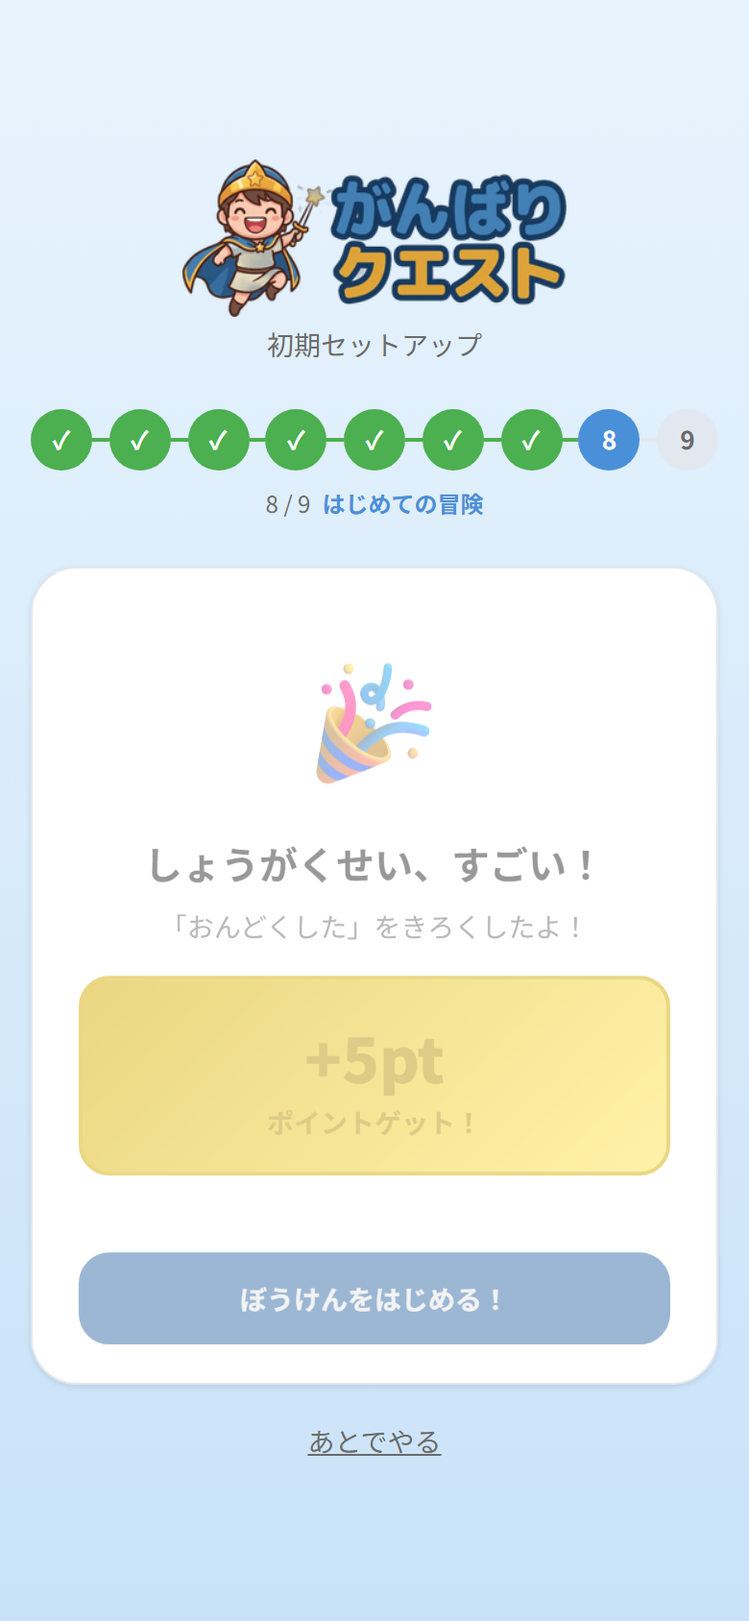
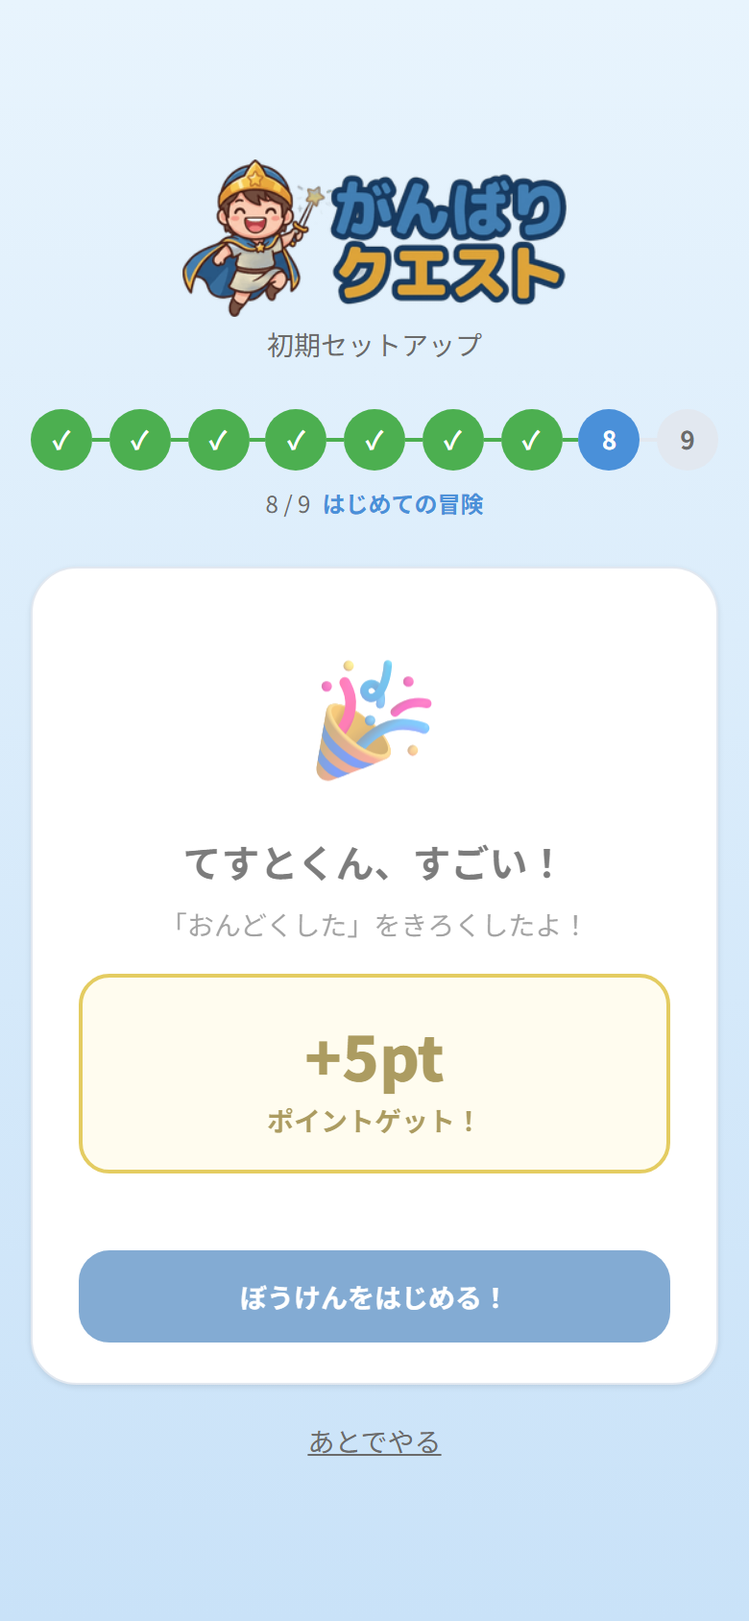
chore(screenshots): #4908 fresh dev server再起動でafter SSを撮り直し
QM BLOCK指摘 (PR #4935): after-celebration.png がbefore と実測コントラスト値
(RGB(220,204,135)、1.34:1)まで一致しており、stale build/devサーバーの疑いあり
と判定された。fresh dev server + DBリセット後に再撮影したところ、背景が単色
gold-100 (#fffbe6) / 文字が text-gold (#7a5f00) に正しく切り替わっており、
以前のafter-*.png は撮影時に古いdevサーバーを参照していたことが原因と特定。

Claude-Session: https://claude.ai/code/session_018PYFktdQzu6Cvx6ipE2gK4

diff --git a/pr-4935/after-selecting.dom.html b/pr-4935/after-selecting.dom.html
@@ -15,9 +15,9 @@
 		<link rel="icon" type="image/png" sizes="16x16" href="http://localhost:5173/favicon-16x16.png?v=2">
 		<link rel="apple-touch-icon" sizes="180x180" href="http://localhost:5173/icons/apple-touch-icon.png">
 		<link rel="manifest" href="/manifest.webmanifest">
-		<!--12qhfyh--><meta name="description" content="お子さまの活動をゲーミフィケーションで動機付けする家庭内Webアプリ"><!----><!--1kgyebr--><!----><title>はじめてのぼうけん - がんばりクエスト セットアップ</title>
+		<!--12qhfyh--><meta name="description" content="お子さまの活動をゲーミフィケーションで動機付けする家庭内Webアプリ"><!----><!--1kgyebr--><!----><script>console.error("node_invalid_placement_ssr: `<button>` (src/lib/ui/primitives/Button.svelte:117:7) cannot be a descendant of `<button>` (src/lib/ui/primitives/Button.svelte:81:0)\n\nThis can cause content to shift around as the browser repairs the HTML, and will likely result in a `hydration_mismatch` warning.")</script><title>はじめてのぼうけん - がんばりクエスト セットアップ</title>
 		
-	<style type="text/css" data-vite-dev-id="E:/Github/ganbari-quest-dev/.claude/worktrees/agent-ae16011e0ac0f3565/src/lib/features/ops/OpsMfaSetupNotice.svelte?svelte&amp;type=style&amp;lang.css">
+	<style type="text/css" data-vite-dev-id="E:/Github/ganbari-quest-dev/.claude/worktrees/agent-ae5211a49d5d0b189/src/lib/features/ops/OpsMfaSetupNotice.svelte?svelte&amp;type=style&amp;lang.css">
 	.ops-mfa-notice.svelte-8sltx3 {
 		max-width: 40rem;
 		margin: 2rem auto;
@@ -58,7 +58,7 @@
 		line-height: 1.6;
 		margin: 0;
 	}
- .svelte-8sltx3{}</style><style type="text/css" data-vite-dev-id="E:/Github/ganbari-quest-dev/.claude/worktrees/agent-ae16011e0ac0f3565/src/routes/+error.svelte?svelte&amp;type=style&amp;lang.css">
+ .svelte-8sltx3{}</style><style type="text/css" data-vite-dev-id="E:/Github/ganbari-quest-dev/.claude/worktrees/agent-ae5211a49d5d0b189/src/routes/+error.svelte?svelte&amp;type=style&amp;lang.css">
 	.error-page.svelte-1j96wlh {
 		display: flex;
 		align-items: center;
@@ -146,7 +146,7 @@
 		padding: 0.125rem 0.375rem;
 		border-radius: 4px;
 	}
- .svelte-1j96wlh{}</style><style type="text/css" data-vite-dev-id="E:/Github/ganbari-quest-dev/.claude/worktrees/agent-ae16011e0ac0f3565/src/lib/ui/styles/app.css">/*! tailwindcss v4.3.3 | MIT License | https://tailwindcss.com */
+ .svelte-1j96wlh{}</style><style type="text/css" data-vite-dev-id="E:/Github/ganbari-quest-dev/.claude/worktrees/agent-ae5211a49d5d0b189/src/lib/ui/styles/app.css">/*! tailwindcss v4.3.3 | MIT License | https://tailwindcss.com */
 @layer properties;
 @layer theme, base, components, utilities;
 @layer theme {
@@ -4156,7 +4156,7 @@ h1, h2, h3, h4 {
     }
   }
 }
-</style><style type="text/css" data-vite-dev-id="E:/Github/ganbari-quest-dev/.claude/worktrees/agent-ae16011e0ac0f3565/src/lib/ui/components/NavigationProgress.svelte?svelte&amp;type=style&amp;lang.css">
+</style><style type="text/css" data-vite-dev-id="E:/Github/ganbari-quest-dev/.claude/worktrees/agent-ae5211a49d5d0b189/src/lib/ui/components/NavigationProgress.svelte?svelte&amp;type=style&amp;lang.css">
 	.navigation-progress.svelte-1p67wbu {
 		position: fixed;
 		top: 0;
@@ -4188,7 +4188,7 @@ h1, h2, h3, h4 {
 			opacity: 0;
 		}
 	}
- .svelte-1p67wbu{}</style><style type="text/css" data-vite-dev-id="E:/Github/ganbari-quest-dev/.claude/worktrees/agent-ae16011e0ac0f3565/src/lib/ui/components/Logo.svelte?svelte&amp;type=style&amp;lang.css">
+ .svelte-1p67wbu{}</style><style type="text/css" data-vite-dev-id="E:/Github/ganbari-quest-dev/.claude/worktrees/agent-ae5211a49d5d0b189/src/lib/ui/components/Logo.svelte?svelte&amp;type=style&amp;lang.css">
 	.logo-wrapper.svelte-1n7r250 {
 		display: inline-flex;
 		align-items: center;
@@ -4216,7 +4216,7 @@ h1, h2, h3, h4 {
 		background: var(--plan-badge-bg, #fef3c7);
 		color: var(--plan-badge-text, #92400e);
 	}
- .svelte-1n7r250{}</style><style type="text/css" data-vite-dev-id="E:/Github/ganbari-quest-dev/.claude/worktrees/agent-ae16011e0ac0f3565/src/routes/setup/+layout.svelte?svelte&amp;type=style&amp;lang.css">
+ .svelte-1n7r250{}</style><style type="text/css" data-vite-dev-id="E:/Github/ganbari-quest-dev/.claude/worktrees/agent-ae5211a49d5d0b189/src/routes/setup/+layout.svelte?svelte&amp;type=style&amp;lang.css">
 	.setup-page.svelte-a9mpxv {
 		min-height: 100dvh;
 		background: linear-gradient(to bottom, var(--color-brand-100), var(--color-brand-200));
@@ -4262,8 +4262,12 @@ h1, h2, h3, h4 {
 	}
 	.step-caption__count.svelte-a9mpxv { color: var(--color-text-muted); font-variant-numeric: tabular-nums; }
 	.step-caption__label.svelte-a9mpxv { color: var(--color-brand-600); font-weight: 600; }
- .svelte-a9mpxv{}</style><meta name="description" content="お子さまの活動をゲーミフィケーションで動機付けする家庭内Webアプリ"><style type="text/css" data-vite-dev-id="E:/Github/ganbari-quest-dev/.claude/worktrees/agent-ae16011e0ac0f3565/src/routes/setup/first-adventure/+page.svelte?svelte&amp;type=style&amp;lang.css">
-	.points-display.svelte-szbbua { background: var(--gradient-gold); }
+ .svelte-a9mpxv{}</style><meta name="description" content="お子さまの活動をゲーミフィケーションで動機付けする家庭内Webアプリ"><style type="text/css" data-vite-dev-id="E:/Github/ganbari-quest-dev/.claude/worktrees/agent-ae5211a49d5d0b189/src/routes/setup/first-adventure/+page.svelte?svelte&amp;type=style&amp;lang.css">
+	/* #4908: gradient-gold background fails WCAG AA with any gold text token (measured
+	   1.3-2.2:1). Switched to solid gold-100, which --color-text-gold satisfies AA against
+	   (locked by tests/unit/architecture/color-contrast-tokens.test.ts). Rationale (JP) is in
+	   the <script> block near resultPointsBreakdown. */
+	.points-display.svelte-szbbua { background: var(--color-gold-100); }
 	.celebration-emoji.svelte-szbbua { animation: svelte-szbbua-bounce 0.6s ease-in-out infinite alternate; }
 	@keyframes svelte-szbbua-bounce {
 		from { transform: translateY(0); }
@@ -4280,4 +4284,4 @@ h1, h2, h3, h4 {
 		50% { box-shadow: 0 0 0 8px rgba(34, 197, 94, 0); }
 	}
  .svelte-szbbua{}</style></head>
-	<body data-sveltekit-preload-data="hover"><!----><!----><!----><!----><!----> <!----><!----> <!----><!----> <!----><!----><div class="setup-page svelte-a9mpxv"><div class="w-full max-w-[480px] svelte-a9mpxv"><div class="text-center mb-6 svelte-a9mpxv"><span class="logo-wrapper  svelte-1n7r250"><img class="logo svelte-1n7r250" src="/logo-compact.png" alt="がんばりクエスト" width="200" height="81"> <!----></span><!----> <p class="text-sm text-[var(--color-text-muted)] mt-1 svelte-a9mpxv">初期セットアップ</p></div> <div class="steps svelte-a9mpxv"><div class="step svelte-a9mpxv step--done" aria-label="子供登録"><span aria-hidden="true" class="svelte-a9mpxv">✓</span><!----></div> <div class="step-line svelte-a9mpxv step-line--done"></div><!----><div class="step svelte-a9mpxv step--done" aria-label="かんたん質問"><span aria-hidden="true" class="svelte-a9mpxv">✓</span><!----></div> <div class="step-line svelte-a9mpxv step-line--done"></div><!----><div class="step svelte-a9mpxv step--done" aria-label="活動"><span aria-hidden="true" class="svelte-a9mpxv">✓</span><!----></div> <div class="step-line svelte-a9mpxv step-line--done"></div><!----><div class="step svelte-a9mpxv step--done" aria-label="ごほうび"><span aria-hidden="true" class="svelte-a9mpxv">✓</span><!----></div> <div class="step-line svelte-a9mpxv step-line--done"></div><!----><div class="step svelte-a9mpxv step--done" aria-label="ルール"><span aria-hidden="true" class="svelte-a9mpxv">✓</span><!----></div> <div class="step-line svelte-a9mpxv step-line--done"></div><!----><div class="step svelte-a9mpxv step--done" aria-label="活動初期設定"><span aria-hidden="true" class="svelte-a9mpxv">✓</span><!----></div> <div class="step-line svelte-a9mpxv step-line--done"></div><!----><div class="step svelte-a9mpxv step--done" aria-label="家族チャレンジ"><span aria-hidden="true" class="svelte-a9mpxv">✓</span><!----></div> <div class="step-line svelte-a9mpxv step-line--done"></div><!----><div class="step svelte-a9mpxv step--active" aria-label="はじめての冒険" aria-current="step">8<!----></div> <div class="step-line svelte-a9mpxv"></div><!----><div class="step svelte-a9mpxv" aria-label="冒険の始まり">9<!----></div> <!----></div> <p class="step-caption mb-6 svelte-a9mpxv"><span class="step-caption__count svelte-a9mpxv">8 / 9</span> <span class="step-caption__label svelte-a9mpxv">はじめての冒険</span></p> <section class="rounded-[var(--card-radius)] overflow-hidden bg-[var(--card-bg)] shadow-[var(--card-shadow)] border border-[var(--color-border-default)] "><!----> <div class="p-6"><!----><!----><!----><!----><!----><!----> <!----><p class="text-sm text-[var(--color-text-muted)] text-center mb-3 svelte-szbbua" role="status" data-testid="first-adventure-challenges-notice">チャレンジを 3 件追加しました。</p><!----> <div class="mb-4 svelte-szbbua" data-testid="first-adventure-child-picker"><div class="text-xs text-[var(--color-text-muted)] mb-1 svelte-szbbua">だれといっしょにやる？</div> <form method="GET" class="flex flex-wrap gap-2 svelte-szbbua"><!----><!----><button class="tap-target inline-flex items-center justify-center gap-2 font-bold transition-all disabled:opacity-60 disabled:cursor-not-allowed bg-transparent text-[var(--color-text-muted)] hover:bg-black/5 active:bg-black/10 px-4 py-2 text-sm rounded-[var(--radius-sm)] px-3 py-2 rounded-lg border-2 text-sm border-[var(--color-brand-600)] bg-[var(--color-brand-200)] text-[var(--color-text)] font-bold" aria-busy="false" type="submit" name="childId" value="4"><!---->しょうがくせい<!----></button><!----><!----><button class="tap-target inline-flex items-center justify-center gap-2 font-bold transition-all disabled:opacity-60 disabled:cursor-not-allowed bg-transparent text-[var(--color-text-muted)] hover:bg-black/5 active:bg-black/10 px-4 py-2 text-sm rounded-[var(--radius-sm)] px-3 py-2 rounded-lg border-2 text-sm border-[var(--color-border-default)] bg-[var(--color-surface-card)] text-[var(--color-text-muted)]" aria-busy="false" type="submit" name="childId" value="5"><!---->ちゅうがくせい<!----></button><!----><!----><button class="tap-target inline-flex items-center justify-center gap-2 font-bold transition-all disabled:opacity-60 disabled:cursor-not-allowed bg-transparent text-[var(--color-text-muted)] hover:bg-black/5 active:bg-black/10 px-4 py-2 text-sm rounded-[var(--radius-sm)] px-3 py-2 rounded-lg border-2 text-sm border-[var(--color-border-default)] bg-[var(--color-surface-card)] text-[var(--color-text-muted)]" aria-busy="false" type="submit" name="childId" value="6"><!---->こうこうせい<!----></button><!----><!----><button class="tap-target inline-flex items-center justify-center gap-2 font-bold transition-all disabled:opacity-60 disabled:cursor-not-allowed bg-transparent text-[var(--color-text-muted)] hover:bg-black/5 active:bg-black/10 px-4 py-2 text-sm rounded-[var(--radius-sm)] px-3 py-2 rounded-lg border-2 text-sm border-[var(--color-border-default)] bg-[var(--color-surface-card)] text-[var(--color-text-muted)]" aria-busy="false" type="submit" name="childId" value="7"><!---->てすとくん<!----></button><!----><!----><button class="tap-target inline-flex items-center justify-center gap-2 font-bold transition-all disabled:opacity-60 disabled:cursor-not-allowed bg-transparent text-[var(--color-text-muted)] hover:bg-black/5 active:bg-black/10 px-4 py-2 text-sm rounded-[var(--radius-sm)] px-3 py-2 rounded-lg border-2 text-sm border-[var(--color-border-default)] bg-[var(--color-surface-card)] text-[var(--color-text-muted)]" aria-busy="false" type="submit" name="childId" value="8"><!---->てすとくん<!----></button><!----><!----><button class="tap-target inline-flex items-center justify-center gap-2 font-bold transition-all disabled:opacity-60 disabled:cursor-not-allowed bg-transparent text-[var(--color-text-muted)] hover:bg-black/5 active:bg-black/10 px-4 py-2 text-sm rounded-[var(--radius-sm)] px-3 py-2 rounded-lg border-2 text-sm border-[var(--color-border-default)] bg-[var(--color-surface-card)] text-[var(--color-text-muted)]" aria-busy="false" type="submit" name="childId" value="9"><!---->てすとくん<!----></button><!----><!----><button class="tap-target inline-flex items-center justify-center gap-2 font-bold transition-all disabled:opacity-60 disabled:cursor-not-allowed bg-transparent text-[var(--color-text-muted)] hover:bg-black/5 active:bg-black/10 px-4 py-2 text-sm rounded-[var(--radius-sm)] px-3 py-2 rounded-lg border-2 text-sm border-[var(--color-border-default)] bg-[var(--color-surface-card)] text-[var(--color-text-muted)]" aria-busy="false" type="submit" name="childId" value="10"><!---->てすとくん<!----></button></form> <p class="mt-2 mb-0 text-xs text-[var(--color-text-muted)] svelte-szbbua" data-testid="first-adventure-child-picker-reassurance">まずは 1 人と一緒に。ほかのお子さまはあとからでも大丈夫です</p></div><!----> <div class="text-center mb-4 svelte-szbbua"><div class="text-3xl mb-2 svelte-szbbua">⚔</div> <h2 class="text-lg font-bold text-[var(--color-text)] svelte-szbbua">はじめてのぼうけん！</h2> <p class="text-sm text-[var(--color-text-muted)] mt-1 svelte-szbbua">しょうがくせい、さいしょのがんばりを<br class="svelte-szbbua"> いっしょにきろくしよう！</p></div> <form method="POST" action="?/record" class="svelte-szbbua"><input type="hidden" name="childId" class="svelte-szbbua" value="4" style=""> <input type="hidden" name="activityId" class="svelte-szbbua" style=""> <div class="grid grid-cols-[repeat(auto-fill,minmax(130px,1fr))] gap-2 svelte-szbbua"><!----><!----><button class="tap-target inline-flex items-center justify-center gap-2 font-bold transition-all disabled:opacity-60 disabled:cursor-not-allowed bg-transparent text-[var(--color-text-muted)] hover:bg-black/5 active:bg-black/10 px-4 py-2 text-sm rounded-[var(--radius-sm)] flex flex-col items-center gap-1 px-2 py-4 border-2 rounded-2xl bg-white cursor-pointer transition-all duration-150 h-auto border-[var(--color-neutral-200)] hover:border-[var(--color-brand-300)] hover:bg-[var(--color-brand-50)]" aria-busy="false" type="button"><!----><span class="text-[2rem] svelte-szbbua">📝</span> <span class="text-xs font-semibold text-[var(--color-text)] text-center leading-tight svelte-szbbua">しゅくだいをした</span> <span class="text-[0.625rem] text-[var(--color-gold-600)] font-bold svelte-szbbua">+10pt</span><!----></button><!----><!----><button class="tap-target inline-flex items-center justify-center gap-2 font-bold transition-all disabled:opacity-60 disabled:cursor-not-allowed bg-transparent text-[var(--color-text-muted)] hover:bg-black/5 active:bg-black/10 px-4 py-2 text-sm rounded-[var(--radius-sm)] flex flex-col items-center gap-1 px-2 py-4 border-2 rounded-2xl bg-white cursor-pointer transition-all duration-150 h-auto border-[var(--color-neutral-200)] hover:border-[var(--color-brand-300)] hover:bg-[var(--color-brand-50)]" aria-busy="false" type="button"><!----><span class="text-[2rem] svelte-szbbua">📖</span> <span class="text-xs font-semibold text-[var(--color-text)] text-center leading-tight svelte-szbbua">どくしょした</span> <span class="text-[0.625rem] text-[var(--color-gold-600)] font-bold svelte-szbbua">+10pt</span><!----></button><!----><!----><button class="tap-target inline-flex items-center justify-center gap-2 font-bold transition-all disabled:opacity-60 disabled:cursor-not-allowed bg-transparent text-[var(--color-text-muted)] hover:bg-black/5 active:bg-black/10 px-4 py-2 text-sm rounded-[var(--radius-sm)] flex flex-col items-center gap-1 px-2 py-4 border-2 rounded-2xl bg-white cursor-pointer transition-all duration-150 h-auto border-[var(--color-neutral-200)] hover:border-[var(--color-brand-300)] hover:bg-[var(--color-brand-50)]" aria-busy="false" type="button"><!----><span class="text-[2rem] svelte-szbbua">🔢</span> <span class="text-xs font-semibold text-[var(--color-text)] text-center leading-tight svelte-szbbua">けいさんれんしゅう</span> <span class="text-[0.625rem] text-[var(--color-gold-600)] font-bold svelte-szbbua">+10pt</span><!----></button><!----><!----><button class="tap-target inline-flex items-center justify-center gap-2 font-bold transition-all disabled:opacity-60 disabled:cursor-not-allowed bg-transparent text-[var(--color-text-muted)] hover:bg-black/5 active:bg-black/10 px-4 py-2 text-sm rounded-[var(--radius-sm)] flex flex-col items-center gap-1 px-2 py-4 border-2 rounded-2xl bg-white cursor-pointer transition-all duration-150 h-auto border-[var(--color-neutral-200)] hover:border-[var(--color-brand-300)] hover:bg-[var(--color-brand-50)]" aria-busy="false" type="button"><!----><span class="text-[2rem] svelte-szbbua">✏</span> <span class="text-xs font-semibold text-[var(--color-text)] text-center leading-tight svelte-szbbua">かんじれんしゅう</span> <span class="text-[0.625rem] text-[var(--color-gold-600)] font-bold svelte-szbbua">+10pt</span><!----></button><!----><!----><button class="tap-target inline-flex items-center justify-center gap-2 font-bold transition-all disabled:opacity-60 disabled:cursor-not-allowed bg-transparent text-[var(--color-text-muted)] hover:bg-black/5 active:bg-black/10 px-4 py-2 text-sm rounded-[var(--radius-sm)] flex flex-col items-center gap-1 px-2 py-4 border-2 rounded-2xl bg-white cursor-pointer transition-all duration-150 h-auto border-[var(--color-neutral-200)] hover:border-[var(--color-brand-300)] hover:bg-[var(--color-brand-50)]" aria-busy="false" type="button"><!----><span class="text-[2rem] svelte-szbbua">🗣</span> <span class="text-xs font-semibold text-[var(--color-text)] text-center leading-tight svelte-szbbua">おんどくした</span> <span class="text-[0.625rem] text-[var(--color-gold-600)] font-bold svelte-szbbua">+5pt</span><!----></button></div> <p class="text-xs text-[var(--color-neutral-400)] text-center mt-4 svelte-szbbua">がんばりをえらんでね！</p><!----></form> <div class="text-center mt-3 svelte-szbbua"><a class="block py-2 text-center text-xs font-bold text-[var(--color-text-muted)] underline hover:text-[var(--color-text-secondary)] svelte-szbbua" data-testid="setup-back-link" href="/setup/challenges">← もどる</a> <form method="POST" action="?/skip" class="svelte-szbbua"><!----><button class="tap-target inline-flex items-center justify-center gap-2 font-bold transition-all disabled:opacity-60 disabled:cursor-not-allowed bg-transparent text-[var(--color-text-muted)] hover:bg-black/5 active:bg-black/10 px-4 py-2 text-sm rounded-[var(--radius-sm)] text-xs underline" aria-busy="false" type="submit"><!---->あとでやる（スキップ）<!----></button><!----></form></div><!----><!----></div> <!----></section><!----> <p class="text-center mt-4 svelte-a9mpxv"><a class="text-sm text-[var(--color-text-muted)] underline hover:text-[var(--color-text-link)] svelte-a9mpxv" data-testid="setup-leave-wizard" href="/switch">あとでやる</a></p><!----></div></div><!----><!----> <div id="svelte-announcer" aria-live="assertive" aria-atomic="true" style="position: absolute; left: 0; top: 0; clip: rect(0 0 0 0); clip-path: inset(50%); overflow: hidden; white-space: nowrap; width: 1px; height: 1px">はじめてのぼうけん - がんばりクエスト セットアップ<!----></div><!----></body></html>
+	<body data-sveltekit-preload-data="hover"><!----><!----><!----><!----><!----> <!----><!----> <!----><!----> <!----><!----><div class="setup-page svelte-a9mpxv"><div class="w-full max-w-[480px] svelte-a9mpxv"><div class="text-center mb-6 svelte-a9mpxv"><span class="logo-wrapper  svelte-1n7r250"><img class="logo svelte-1n7r250" src="/logo-compact.png" alt="がんばりクエスト" width="200" height="81"> <!----></span><!----> <p class="text-sm text-[var(--color-text-muted)] mt-1 svelte-a9mpxv">初期セットアップ</p></div> <div class="steps svelte-a9mpxv"><div class="step svelte-a9mpxv step--done" aria-label="子供登録"><span aria-hidden="true" class="svelte-a9mpxv">✓</span><!----></div> <div class="step-line svelte-a9mpxv step-line--done"></div><!----><div class="step svelte-a9mpxv step--done" aria-label="かんたん質問"><span aria-hidden="true" class="svelte-a9mpxv">✓</span><!----></div> <div class="step-line svelte-a9mpxv step-line--done"></div><!----><div class="step svelte-a9mpxv step--done" aria-label="活動"><span aria-hidden="true" class="svelte-a9mpxv">✓</span><!----></div> <div class="step-line svelte-a9mpxv step-line--done"></div><!----><div class="step svelte-a9mpxv step--done" aria-label="ごほうび"><span aria-hidden="true" class="svelte-a9mpxv">✓</span><!----></div> <div class="step-line svelte-a9mpxv step-line--done"></div><!----><div class="step svelte-a9mpxv step--done" aria-label="ルール"><span aria-hidden="true" class="svelte-a9mpxv">✓</span><!----></div> <div class="step-line svelte-a9mpxv step-line--done"></div><!----><div class="step svelte-a9mpxv step--done" aria-label="活動初期設定"><span aria-hidden="true" class="svelte-a9mpxv">✓</span><!----></div> <div class="step-line svelte-a9mpxv step-line--done"></div><!----><div class="step svelte-a9mpxv step--done" aria-label="家族チャレンジ"><span aria-hidden="true" class="svelte-a9mpxv">✓</span><!----></div> <div class="step-line svelte-a9mpxv step-line--done"></div><!----><div class="step svelte-a9mpxv step--active" aria-label="はじめての冒険" aria-current="step">8<!----></div> <div class="step-line svelte-a9mpxv"></div><!----><div class="step svelte-a9mpxv" aria-label="冒険の始まり">9<!----></div> <!----></div> <p class="step-caption mb-6 svelte-a9mpxv"><span class="step-caption__count svelte-a9mpxv">8 / 9</span> <span class="step-caption__label svelte-a9mpxv">はじめての冒険</span></p> <section class="rounded-[var(--card-radius)] overflow-hidden bg-[var(--card-bg)] shadow-[var(--card-shadow)] border border-[var(--color-border-default)] "><!----> <div class="p-6"><!----><!----><!----><!----><!----><!----> <!----><p class="text-sm text-[var(--color-text-muted)] text-center mb-3 svelte-szbbua" role="status" data-testid="first-adventure-challenges-notice">チャレンジを 3 件追加しました。</p><!----> <!----> <div class="text-center mb-4 svelte-szbbua"><div class="text-3xl mb-2 svelte-szbbua">⚔</div> <h2 class="text-lg font-bold text-[var(--color-text)] svelte-szbbua">はじめてのぼうけん！</h2> <p class="text-sm text-[var(--color-text-muted)] mt-1 svelte-szbbua">てすとくん、さいしょのがんばりを<br class="svelte-szbbua"> いっしょにきろくしよう！</p></div> <form method="POST" action="?/record" class="svelte-szbbua"><input type="hidden" name="childId" class="svelte-szbbua" value="1" style=""> <input type="hidden" name="activityId" class="svelte-szbbua" style=""> <div class="grid grid-cols-[repeat(auto-fill,minmax(130px,1fr))] gap-2 svelte-szbbua"><!----><!----><button class="tap-target inline-flex items-center justify-center gap-2 font-bold transition-all disabled:opacity-60 disabled:cursor-not-allowed bg-transparent text-[var(--color-text-muted)] hover:bg-black/5 active:bg-black/10 px-4 py-2 text-sm rounded-[var(--radius-sm)] flex flex-col items-center gap-1 px-2 py-4 border-2 rounded-2xl bg-white cursor-pointer transition-all duration-150 h-auto border-[var(--color-neutral-200)] hover:border-[var(--color-brand-300)] hover:bg-[var(--color-brand-50)]" aria-busy="false" type="button"><!----><span class="text-[2rem] svelte-szbbua">📝</span> <span class="text-xs font-semibold text-[var(--color-text)] text-center leading-tight svelte-szbbua">しゅくだいをした</span> <span class="text-[0.625rem] text-[var(--color-gold-600)] font-bold svelte-szbbua">+10pt</span><!----></button><!----><!----><button class="tap-target inline-flex items-center justify-center gap-2 font-bold transition-all disabled:opacity-60 disabled:cursor-not-allowed bg-transparent text-[var(--color-text-muted)] hover:bg-black/5 active:bg-black/10 px-4 py-2 text-sm rounded-[var(--radius-sm)] flex flex-col items-center gap-1 px-2 py-4 border-2 rounded-2xl bg-white cursor-pointer transition-all duration-150 h-auto border-[var(--color-neutral-200)] hover:border-[var(--color-brand-300)] hover:bg-[var(--color-brand-50)]" aria-busy="false" type="button"><!----><span class="text-[2rem] svelte-szbbua">📖</span> <span class="text-xs font-semibold text-[var(--color-text)] text-center leading-tight svelte-szbbua">どくしょした</span> <span class="text-[0.625rem] text-[var(--color-gold-600)] font-bold svelte-szbbua">+10pt</span><!----></button><!----><!----><button class="tap-target inline-flex items-center justify-center gap-2 font-bold transition-all disabled:opacity-60 disabled:cursor-not-allowed bg-transparent text-[var(--color-text-muted)] hover:bg-black/5 active:bg-black/10 px-4 py-2 text-sm rounded-[var(--radius-sm)] flex flex-col items-center gap-1 px-2 py-4 border-2 rounded-2xl bg-white cursor-pointer transition-all duration-150 h-auto border-[var(--color-neutral-200)] hover:border-[var(--color-brand-300)] hover:bg-[var(--color-brand-50)]" aria-busy="false" type="button"><!----><span class="text-[2rem] svelte-szbbua">🔢</span> <span class="text-xs font-semibold text-[var(--color-text)] text-center leading-tight svelte-szbbua">けいさんれんしゅう</span> <span class="text-[0.625rem] text-[var(--color-gold-600)] font-bold svelte-szbbua">+10pt</span><!----></button><!----><!----><button class="tap-target inline-flex items-center justify-center gap-2 font-bold transition-all disabled:opacity-60 disabled:cursor-not-allowed bg-transparent text-[var(--color-text-muted)] hover:bg-black/5 active:bg-black/10 px-4 py-2 text-sm rounded-[var(--radius-sm)] flex flex-col items-center gap-1 px-2 py-4 border-2 rounded-2xl bg-white cursor-pointer transition-all duration-150 h-auto border-[var(--color-neutral-200)] hover:border-[var(--color-brand-300)] hover:bg-[var(--color-brand-50)]" aria-busy="false" type="button"><!----><span class="text-[2rem] svelte-szbbua">✏</span> <span class="text-xs font-semibold text-[var(--color-text)] text-center leading-tight svelte-szbbua">かんじれんしゅう</span> <span class="text-[0.625rem] text-[var(--color-gold-600)] font-bold svelte-szbbua">+10pt</span><!----></button><!----><!----><button class="tap-target inline-flex items-center justify-center gap-2 font-bold transition-all disabled:opacity-60 disabled:cursor-not-allowed bg-transparent text-[var(--color-text-muted)] hover:bg-black/5 active:bg-black/10 px-4 py-2 text-sm rounded-[var(--radius-sm)] flex flex-col items-center gap-1 px-2 py-4 border-2 rounded-2xl bg-white cursor-pointer transition-all duration-150 h-auto border-[var(--color-neutral-200)] hover:border-[var(--color-brand-300)] hover:bg-[var(--color-brand-50)]" aria-busy="false" type="button"><!----><span class="text-[2rem] svelte-szbbua">🗣</span> <span class="text-xs font-semibold text-[var(--color-text)] text-center leading-tight svelte-szbbua">おんどくした</span> <span class="text-[0.625rem] text-[var(--color-gold-600)] font-bold svelte-szbbua">+5pt</span><!----></button></div> <p class="text-xs text-[var(--color-neutral-400)] text-center mt-4 svelte-szbbua">がんばりをえらんでね！</p><!----></form> <div class="text-center mt-3 svelte-szbbua"><a class="block py-2 text-center text-xs font-bold text-[var(--color-text-muted)] underline hover:text-[var(--color-text-secondary)] svelte-szbbua" data-testid="setup-back-link" href="/setup/challenges">← もどる</a> <form method="POST" action="?/skip" class="svelte-szbbua"><!----><button class="tap-target inline-flex items-center justify-center gap-2 font-bold transition-all disabled:opacity-60 disabled:cursor-not-allowed bg-transparent text-[var(--color-text-muted)] hover:bg-black/5 active:bg-black/10 px-4 py-2 text-sm rounded-[var(--radius-sm)] text-xs underline" aria-busy="false" type="submit"><!---->あとでやる（スキップ）<!----></button><!----></form></div><!----><!----></div> <!----></section><!----> <p class="text-center mt-4 svelte-a9mpxv"><a class="text-sm text-[var(--color-text-muted)] underline hover:text-[var(--color-text-link)] svelte-a9mpxv" data-testid="setup-leave-wizard" href="/switch">あとでやる</a></p><!----></div></div><!----><!----> <div id="svelte-announcer" aria-live="assertive" aria-atomic="true" style="position: absolute; left: 0; top: 0; clip: rect(0 0 0 0); clip-path: inset(50%); overflow: hidden; white-space: nowrap; width: 1px; height: 1px">はじめてのぼうけん - がんばりクエスト セットアップ<!----></div><!----></body></html>

diff --git a/pr-4935/after-celebration.dom.html b/pr-4935/after-celebration.dom.html
@@ -15,9 +15,9 @@
 		<link rel="icon" type="image/png" sizes="16x16" href="http://localhost:5173/favicon-16x16.png?v=2">
 		<link rel="apple-touch-icon" sizes="180x180" href="http://localhost:5173/icons/apple-touch-icon.png">
 		<link rel="manifest" href="/manifest.webmanifest">
-		<!--12qhfyh--><meta name="description" content="お子さまの活動をゲーミフィケーションで動機付けする家庭内Webアプリ"><!----><!--1kgyebr--><!----><title>はじめてのぼうけん - がんばりクエスト セットアップ</title>
+		<!--12qhfyh--><meta name="description" content="お子さまの活動をゲーミフィケーションで動機付けする家庭内Webアプリ"><!----><!--1kgyebr--><!----><script>console.error("node_invalid_placement_ssr: `<button>` (src/lib/ui/primitives/Button.svelte:117:7) cannot be a descendant of `<button>` (src/lib/ui/primitives/Button.svelte:81:0)\n\nThis can cause content to shift around as the browser repairs the HTML, and will likely result in a `hydration_mismatch` warning.")</script><title>はじめてのぼうけん - がんばりクエスト セットアップ</title>
 		
-	<style type="text/css" data-vite-dev-id="E:/Github/ganbari-quest-dev/.claude/worktrees/agent-ae16011e0ac0f3565/src/lib/features/ops/OpsMfaSetupNotice.svelte?svelte&amp;type=style&amp;lang.css">
+	<style type="text/css" data-vite-dev-id="E:/Github/ganbari-quest-dev/.claude/worktrees/agent-ae5211a49d5d0b189/src/lib/features/ops/OpsMfaSetupNotice.svelte?svelte&amp;type=style&amp;lang.css">
 	.ops-mfa-notice.svelte-8sltx3 {
 		max-width: 40rem;
 		margin: 2rem auto;
@@ -58,7 +58,7 @@
 		line-height: 1.6;
 		margin: 0;
 	}
- .svelte-8sltx3{}</style><style type="text/css" data-vite-dev-id="E:/Github/ganbari-quest-dev/.claude/worktrees/agent-ae16011e0ac0f3565/src/routes/+error.svelte?svelte&amp;type=style&amp;lang.css">
+ .svelte-8sltx3{}</style><style type="text/css" data-vite-dev-id="E:/Github/ganbari-quest-dev/.claude/worktrees/agent-ae5211a49d5d0b189/src/routes/+error.svelte?svelte&amp;type=style&amp;lang.css">
 	.error-page.svelte-1j96wlh {
 		display: flex;
 		align-items: center;
@@ -146,7 +146,7 @@
 		padding: 0.125rem 0.375rem;
 		border-radius: 4px;
 	}
- .svelte-1j96wlh{}</style><style type="text/css" data-vite-dev-id="E:/Github/ganbari-quest-dev/.claude/worktrees/agent-ae16011e0ac0f3565/src/lib/ui/styles/app.css">/*! tailwindcss v4.3.3 | MIT License | https://tailwindcss.com */
+ .svelte-1j96wlh{}</style><style type="text/css" data-vite-dev-id="E:/Github/ganbari-quest-dev/.claude/worktrees/agent-ae5211a49d5d0b189/src/lib/ui/styles/app.css">/*! tailwindcss v4.3.3 | MIT License | https://tailwindcss.com */
 @layer properties;
 @layer theme, base, components, utilities;
 @layer theme {
@@ -4156,7 +4156,7 @@ h1, h2, h3, h4 {
     }
   }
 }
-</style><style type="text/css" data-vite-dev-id="E:/Github/ganbari-quest-dev/.claude/worktrees/agent-ae16011e0ac0f3565/src/lib/ui/components/NavigationProgress.svelte?svelte&amp;type=style&amp;lang.css">
+</style><style type="text/css" data-vite-dev-id="E:/Github/ganbari-quest-dev/.claude/worktrees/agent-ae5211a49d5d0b189/src/lib/ui/components/NavigationProgress.svelte?svelte&amp;type=style&amp;lang.css">
 	.navigation-progress.svelte-1p67wbu {
 		position: fixed;
 		top: 0;
@@ -4188,7 +4188,7 @@ h1, h2, h3, h4 {
 			opacity: 0;
 		}
 	}
- .svelte-1p67wbu{}</style><style type="text/css" data-vite-dev-id="E:/Github/ganbari-quest-dev/.claude/worktrees/agent-ae16011e0ac0f3565/src/lib/ui/components/Logo.svelte?svelte&amp;type=style&amp;lang.css">
+ .svelte-1p67wbu{}</style><style type="text/css" data-vite-dev-id="E:/Github/ganbari-quest-dev/.claude/worktrees/agent-ae5211a49d5d0b189/src/lib/ui/components/Logo.svelte?svelte&amp;type=style&amp;lang.css">
 	.logo-wrapper.svelte-1n7r250 {
 		display: inline-flex;
 		align-items: center;
@@ -4216,7 +4216,7 @@ h1, h2, h3, h4 {
 		background: var(--plan-badge-bg, #fef3c7);
 		color: var(--plan-badge-text, #92400e);
 	}
- .svelte-1n7r250{}</style><style type="text/css" data-vite-dev-id="E:/Github/ganbari-quest-dev/.claude/worktrees/agent-ae16011e0ac0f3565/src/routes/setup/+layout.svelte?svelte&amp;type=style&amp;lang.css">
+ .svelte-1n7r250{}</style><style type="text/css" data-vite-dev-id="E:/Github/ganbari-quest-dev/.claude/worktrees/agent-ae5211a49d5d0b189/src/routes/setup/+layout.svelte?svelte&amp;type=style&amp;lang.css">
 	.setup-page.svelte-a9mpxv {
 		min-height: 100dvh;
 		background: linear-gradient(to bottom, var(--color-brand-100), var(--color-brand-200));
@@ -4262,8 +4262,12 @@ h1, h2, h3, h4 {
 	}
 	.step-caption__count.svelte-a9mpxv { color: var(--color-text-muted); font-variant-numeric: tabular-nums; }
 	.step-caption__label.svelte-a9mpxv { color: var(--color-brand-600); font-weight: 600; }
- .svelte-a9mpxv{}</style><meta name="description" content="お子さまの活動をゲーミフィケーションで動機付けする家庭内Webアプリ"><style type="text/css" data-vite-dev-id="E:/Github/ganbari-quest-dev/.claude/worktrees/agent-ae16011e0ac0f3565/src/routes/setup/first-adventure/+page.svelte?svelte&amp;type=style&amp;lang.css">
-	.points-display.svelte-szbbua { background: var(--gradient-gold); }
+ .svelte-a9mpxv{}</style><meta name="description" content="お子さまの活動をゲーミフィケーションで動機付けする家庭内Webアプリ"><style type="text/css" data-vite-dev-id="E:/Github/ganbari-quest-dev/.claude/worktrees/agent-ae5211a49d5d0b189/src/routes/setup/first-adventure/+page.svelte?svelte&amp;type=style&amp;lang.css">
+	/* #4908: gradient-gold background fails WCAG AA with any gold text token (measured
+	   1.3-2.2:1). Switched to solid gold-100, which --color-text-gold satisfies AA against
+	   (locked by tests/unit/architecture/color-contrast-tokens.test.ts). Rationale (JP) is in
+	   the <script> block near resultPointsBreakdown. */
+	.points-display.svelte-szbbua { background: var(--color-gold-100); }
 	.celebration-emoji.svelte-szbbua { animation: svelte-szbbua-bounce 0.6s ease-in-out infinite alternate; }
 	@keyframes svelte-szbbua-bounce {
 		from { transform: translateY(0); }
@@ -4280,4 +4284,4 @@ h1, h2, h3, h4 {
 		50% { box-shadow: 0 0 0 8px rgba(34, 197, 94, 0); }
 	}
  .svelte-szbbua{}</style></head>
-	<body data-sveltekit-preload-data="hover"><!----><!----><!----><!----><!----> <!----><!----> <!----><!----> <!----><!----><div class="setup-page svelte-a9mpxv"><div class="w-full max-w-[480px] svelte-a9mpxv"><div class="text-center mb-6 svelte-a9mpxv"><span class="logo-wrapper  svelte-1n7r250"><img class="logo svelte-1n7r250" src="/logo-compact.png" alt="がんばりクエスト" width="200" height="81"> <!----></span><!----> <p class="text-sm text-[var(--color-text-muted)] mt-1 svelte-a9mpxv">初期セットアップ</p></div> <div class="steps svelte-a9mpxv"><div class="step svelte-a9mpxv step--done" aria-label="子供登録"><span aria-hidden="true" class="svelte-a9mpxv">✓</span><!----></div> <div class="step-line svelte-a9mpxv step-line--done"></div><!----><div class="step svelte-a9mpxv step--done" aria-label="かんたん質問"><span aria-hidden="true" class="svelte-a9mpxv">✓</span><!----></div> <div class="step-line svelte-a9mpxv step-line--done"></div><!----><div class="step svelte-a9mpxv step--done" aria-label="活動"><span aria-hidden="true" class="svelte-a9mpxv">✓</span><!----></div> <div class="step-line svelte-a9mpxv step-line--done"></div><!----><div class="step svelte-a9mpxv step--done" aria-label="ごほうび"><span aria-hidden="true" class="svelte-a9mpxv">✓</span><!----></div> <div class="step-line svelte-a9mpxv step-line--done"></div><!----><div class="step svelte-a9mpxv step--done" aria-label="ルール"><span aria-hidden="true" class="svelte-a9mpxv">✓</span><!----></div> <div class="step-line svelte-a9mpxv step-line--done"></div><!----><div class="step svelte-a9mpxv step--done" aria-label="活動初期設定"><span aria-hidden="true" class="svelte-a9mpxv">✓</span><!----></div> <div class="step-line svelte-a9mpxv step-line--done"></div><!----><div class="step svelte-a9mpxv step--done" aria-label="家族チャレンジ"><span aria-hidden="true" class="svelte-a9mpxv">✓</span><!----></div> <div class="step-line svelte-a9mpxv step-line--done"></div><!----><div class="step svelte-a9mpxv step--active" aria-label="はじめての冒険" aria-current="step">8<!----></div> <div class="step-line svelte-a9mpxv"></div><!----><div class="step svelte-a9mpxv" aria-label="冒険の始まり">9<!----></div> <!----></div> <p class="step-caption mb-6 svelte-a9mpxv"><span class="step-caption__count svelte-a9mpxv">8 / 9</span> <span class="step-caption__label svelte-a9mpxv">はじめての冒険</span></p> <section class="rounded-[var(--card-radius)] overflow-hidden bg-[var(--card-bg)] shadow-[var(--card-shadow)] border border-[var(--color-border-default)] "><!----> <div class="p-6"><!----><!----><!----><!----><div class="text-center success-screen svelte-szbbua"><div class="mb-2 svelte-szbbua"><span class="celebration-emoji text-[4rem] inline-block svelte-szbbua">🎉</span></div> <h2 class="text-xl font-bold text-[var(--color-text)] mt-4 mb-2 svelte-szbbua">しょうがくせい、すごい！</h2> <p class="text-sm text-[var(--color-text-muted)] mb-4 svelte-szbbua">「おんどくした」をきろくしたよ！</p> <div class="points-display border-2 border-[var(--color-gold-600)] rounded-2xl p-4 my-4 svelte-szbbua"><div class="text-[2rem] font-extrabold text-[var(--color-gold-700)] svelte-szbbua">+5pt</div> <div class="text-sm text-[var(--color-gold-700)] font-semibold svelte-szbbua">ポイントゲット！</div></div> <!----> <!----><button class="tap-target inline-flex items-center justify-center gap-2 font-bold transition-all disabled:opacity-60 disabled:cursor-not-allowed bg-[var(--color-action-primary-strong)] text-white hover:brightness-90 active:brightness-80 px-6 py-3 text-md rounded-[var(--radius-md)] min-h-12 w-full mt-6 text-sm" aria-busy="false"><!---->ぼうけんをはじめる！<!----></button><!----></div><!----></div> <!----></section><!----> <p class="text-center mt-4 svelte-a9mpxv"><a class="text-sm text-[var(--color-text-muted)] underline hover:text-[var(--color-text-link)] svelte-a9mpxv" data-testid="setup-leave-wizard" href="/switch">あとでやる</a></p><!----></div></div><!----><!----> <div id="svelte-announcer" aria-live="assertive" aria-atomic="true" style="position: absolute; left: 0; top: 0; clip: rect(0 0 0 0); clip-path: inset(50%); overflow: hidden; white-space: nowrap; width: 1px; height: 1px">はじめてのぼうけん - がんばりクエスト セットアップ<!----></div><!----></body></html>
+	<body data-sveltekit-preload-data="hover"><!----><!----><!----><!----><!----> <!----><!----> <!----><!----> <!----><!----><div class="setup-page svelte-a9mpxv"><div class="w-full max-w-[480px] svelte-a9mpxv"><div class="text-center mb-6 svelte-a9mpxv"><span class="logo-wrapper  svelte-1n7r250"><img class="logo svelte-1n7r250" src="/logo-compact.png" alt="がんばりクエスト" width="200" height="81"> <!----></span><!----> <p class="text-sm text-[var(--color-text-muted)] mt-1 svelte-a9mpxv">初期セットアップ</p></div> <div class="steps svelte-a9mpxv"><div class="step svelte-a9mpxv step--done" aria-label="子供登録"><span aria-hidden="true" class="svelte-a9mpxv">✓</span><!----></div> <div class="step-line svelte-a9mpxv step-line--done"></div><!----><div class="step svelte-a9mpxv step--done" aria-label="かんたん質問"><span aria-hidden="true" class="svelte-a9mpxv">✓</span><!----></div> <div class="step-line svelte-a9mpxv step-line--done"></div><!----><div class="step svelte-a9mpxv step--done" aria-label="活動"><span aria-hidden="true" class="svelte-a9mpxv">✓</span><!----></div> <div class="step-line svelte-a9mpxv step-line--done"></div><!----><div class="step svelte-a9mpxv step--done" aria-label="ごほうび"><span aria-hidden="true" class="svelte-a9mpxv">✓</span><!----></div> <div class="step-line svelte-a9mpxv step-line--done"></div><!----><div class="step svelte-a9mpxv step--done" aria-label="ルール"><span aria-hidden="true" class="svelte-a9mpxv">✓</span><!----></div> <div class="step-line svelte-a9mpxv step-line--done"></div><!----><div class="step svelte-a9mpxv step--done" aria-label="活動初期設定"><span aria-hidden="true" class="svelte-a9mpxv">✓</span><!----></div> <div class="step-line svelte-a9mpxv step-line--done"></div><!----><div class="step svelte-a9mpxv step--done" aria-label="家族チャレンジ"><span aria-hidden="true" class="svelte-a9mpxv">✓</span><!----></div> <div class="step-line svelte-a9mpxv step-line--done"></div><!----><div class="step svelte-a9mpxv step--active" aria-label="はじめての冒険" aria-current="step">8<!----></div> <div class="step-line svelte-a9mpxv"></div><!----><div class="step svelte-a9mpxv" aria-label="冒険の始まり">9<!----></div> <!----></div> <p class="step-caption mb-6 svelte-a9mpxv"><span class="step-caption__count svelte-a9mpxv">8 / 9</span> <span class="step-caption__label svelte-a9mpxv">はじめての冒険</span></p> <section class="rounded-[var(--card-radius)] overflow-hidden bg-[var(--card-bg)] shadow-[var(--card-shadow)] border border-[var(--color-border-default)] "><!----> <div class="p-6"><!----><!----><!----><!----><div class="text-center success-screen svelte-szbbua"><div class="mb-2 svelte-szbbua"><span class="celebration-emoji text-[4rem] inline-block svelte-szbbua">🎉</span></div> <h2 class="text-xl font-bold text-[var(--color-text)] mt-4 mb-2 svelte-szbbua">てすとくん、すごい！</h2> <p class="text-sm text-[var(--color-text-muted)] mb-4 svelte-szbbua">「おんどくした」をきろくしたよ！</p> <div class="points-display border-2 border-[var(--color-gold-600)] rounded-2xl p-4 my-4 svelte-szbbua" data-testid="first-adventure-points-display"><div class="text-[2rem] font-extrabold text-[var(--color-text-gold)] svelte-szbbua">+5pt</div> <!----> <div class="text-sm text-[var(--color-text-gold)] font-semibold svelte-szbbua">ポイントゲット！</div></div> <!----> <!----><button class="tap-target inline-flex items-center justify-center gap-2 font-bold transition-all disabled:opacity-60 disabled:cursor-not-allowed bg-[var(--color-action-primary-strong)] text-white hover:brightness-90 active:brightness-80 px-6 py-3 text-md rounded-[var(--radius-md)] min-h-12 w-full mt-6 text-sm" aria-busy="false"><!---->ぼうけんをはじめる！<!----></button><!----></div><!----></div> <!----></section><!----> <p class="text-center mt-4 svelte-a9mpxv"><a class="text-sm text-[var(--color-text-muted)] underline hover:text-[var(--color-text-link)] svelte-a9mpxv" data-testid="setup-leave-wizard" href="/switch">あとでやる</a></p><!----></div></div><!----><!----> <div id="svelte-announcer" aria-live="assertive" aria-atomic="true" style="position: absolute; left: 0; top: 0; clip: rect(0 0 0 0); clip-path: inset(50%); overflow: hidden; white-space: nowrap; width: 1px; height: 1px">はじめてのぼうけん - がんばりクエスト セットアップ<!----></div><!----></body></html>
